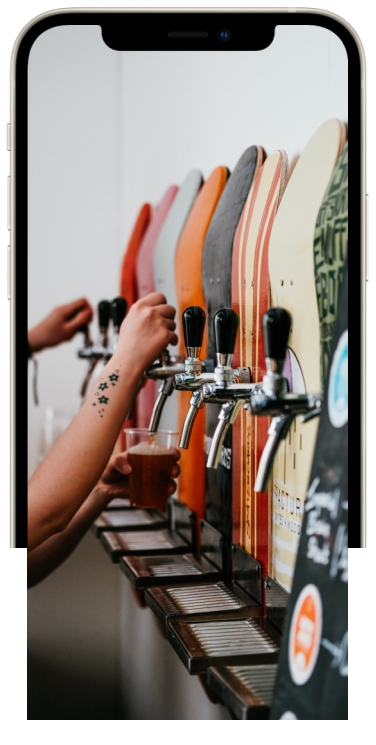
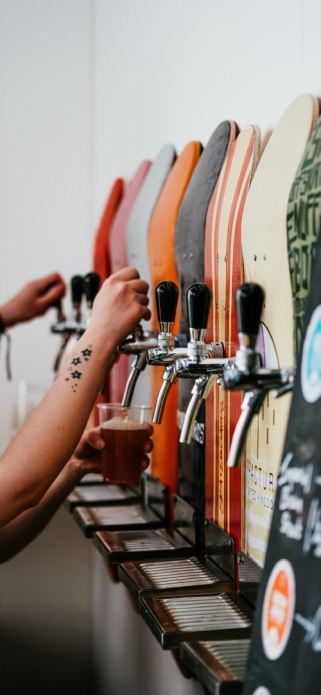
fix section 1

diff --git a/index.html b/index.html
@@ -37,15 +37,6 @@
 
 
 
-
-
-
-
-
-
-
-
-
     <!-- 1-я секция на белом фоне -->
     <div class="section-1">
 
@@ -58,10 +49,34 @@
                 <li class="section-1-content-list__item">READ MORE</li>
             </ul>
         </div>
-        <img src="./assets/image/sec-1-img.png" alt="phone" width="376" height="744">
+        <div class="section-1-content-phone">
+            <img class="section-1-content-phone-border__back" src="./assets/image/_phone-border.png" alt="phone" width="376" height="548">
+            <img class="section-1-content-phone-img" src="./assets/image/sec-1-img.png" alt="phone" width="326" height="694">
+            <img class="section-1-content-phone-border__main" src="./assets/image/_phone-border.png" alt="phone" width="376" height="548">
+        </div>
+        
     </div>
 
+
+
+
+
+
+
+
+
+
+
+
+
+
+
+    
 <!-- 2-я секция на чёрном фоне с шестью флекс-блоками -->
+
+
+
+
     <div class="section-2">
         <div class="section-2-header">
             <h3 class="section-2-header-title">FEATURES</h3>
@@ -119,7 +134,16 @@
         </div>
     </div>
 
+
+
+
+
 <!-- 3-я секция на красном фоне -->
+
+
+
+<!-- 
+
     <div class="section-3">
         <div class="section-3-content">
             <h1>400+</h1>
@@ -134,8 +158,18 @@
             <p class="section-3-content__text">ACCURACY</p>
         </div>
     </div>
+ -->
+
+
+
+
+
 
     <!-- 4-я секция на белом фоне -->
+
+
+
+<!-- 
     <div class="section-4">
         <div class="section-4-content">
             <h4>TECHNOLOGY</h4>
@@ -145,7 +179,15 @@
         <img src="./assets/image/sec-4-img.png" alt="phone" width="376" height="645">
     </div>
 
+ -->
+
+
+
+
     <!-- 5-я секция на сером фоне -->
+
+
+<!-- 
     <div class="section-5">
         <img src="./assets/image/sec-5-img.png" alt="phone" width="376" height="545">
         <div class="section-5-content">
@@ -154,10 +196,17 @@
             <p>Lorem ipsum dolor sit amet, consectetur adipiscing elit. Suspendisse varius enim in eros elementum tristique. Duis cursus, mi quis viverra ornare, eros dolor interdum nulla, ut commodo diam libero vitae erat. Aenean faucibus nibh et justo cursus id rutrum lorem imperdiet. Nunc ut sem vitae risus tristique posuere.</p>
         </div>
     </div>
+ -->
+
+
 
 
 
     <!-- 6-я секция на чёрном фоне -->
+
+
+<!-- 
+
     <div class="section-6">
 
         <div class="section-6-content">
@@ -176,11 +225,7 @@
         </div>
 
 
-
-
-
-
-    </div>
+    </div> -->
 
 
 </body>

diff --git a/styles/style.css b/styles/style.css
@@ -80,10 +80,11 @@
 .section-1 {
     
     /* следующие 2 свойства для быстрого просмотра блока */
-/* 
-    background-color:aliceblue;
-    border: 1px solid black;
- */
+
+    /* background-color:aliceblue;
+    border: 1px solid black; */
+
+
 
     display: flex;
     justify-content: space-around;
@@ -98,12 +99,38 @@
 
     /* следующее свойство для быстрого просмотра блока */
     /* background-color: aqua; */
-
+    position: relative;
     width: 420px;
     height: 350px;
     margin: 2.5em;
     font-size: 2rem;
 }
+
+.section-1-content-phone {
+    position: relative;
+    top: 40px;
+    right: 300px;
+}
+
+/* следующее решение из трёх классов, по-моему, колхоз */
+.section-1-content-phone-border__back {
+    position: absolute;
+    z-index: 1;
+}
+.section-1-content-phone-img {
+    position: absolute;
+    z-index: 2;
+    top: 25px;
+    left: 25px;
+}
+.section-1-content-phone-border__main {
+    position: absolute;
+    z-index: 3;
+}
+
+
+
+
 
 .section-1-content-list {
     display: flex;
@@ -122,8 +149,8 @@
 /* секция 2 на чёрном фоне с шестью флекс-блоками */
 .section-2 {
 
-    /* position: absolute; */
-
+    position: absolute;
+    z-index: 3;
     margin: -5px auto;
     width: 100%;
     height: 1400px;
